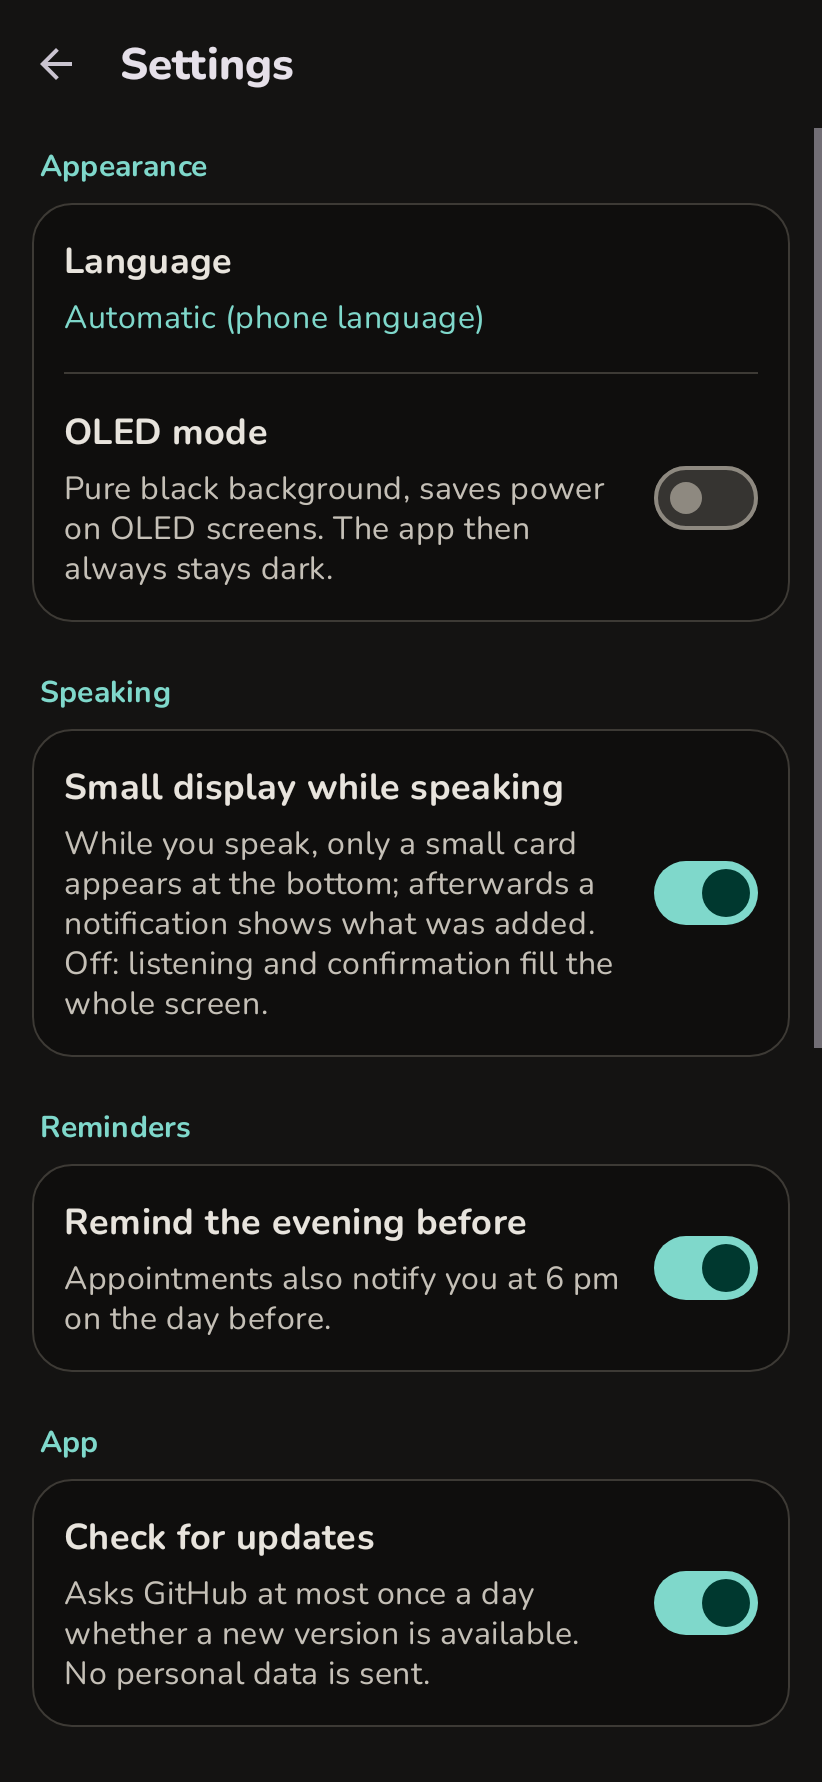
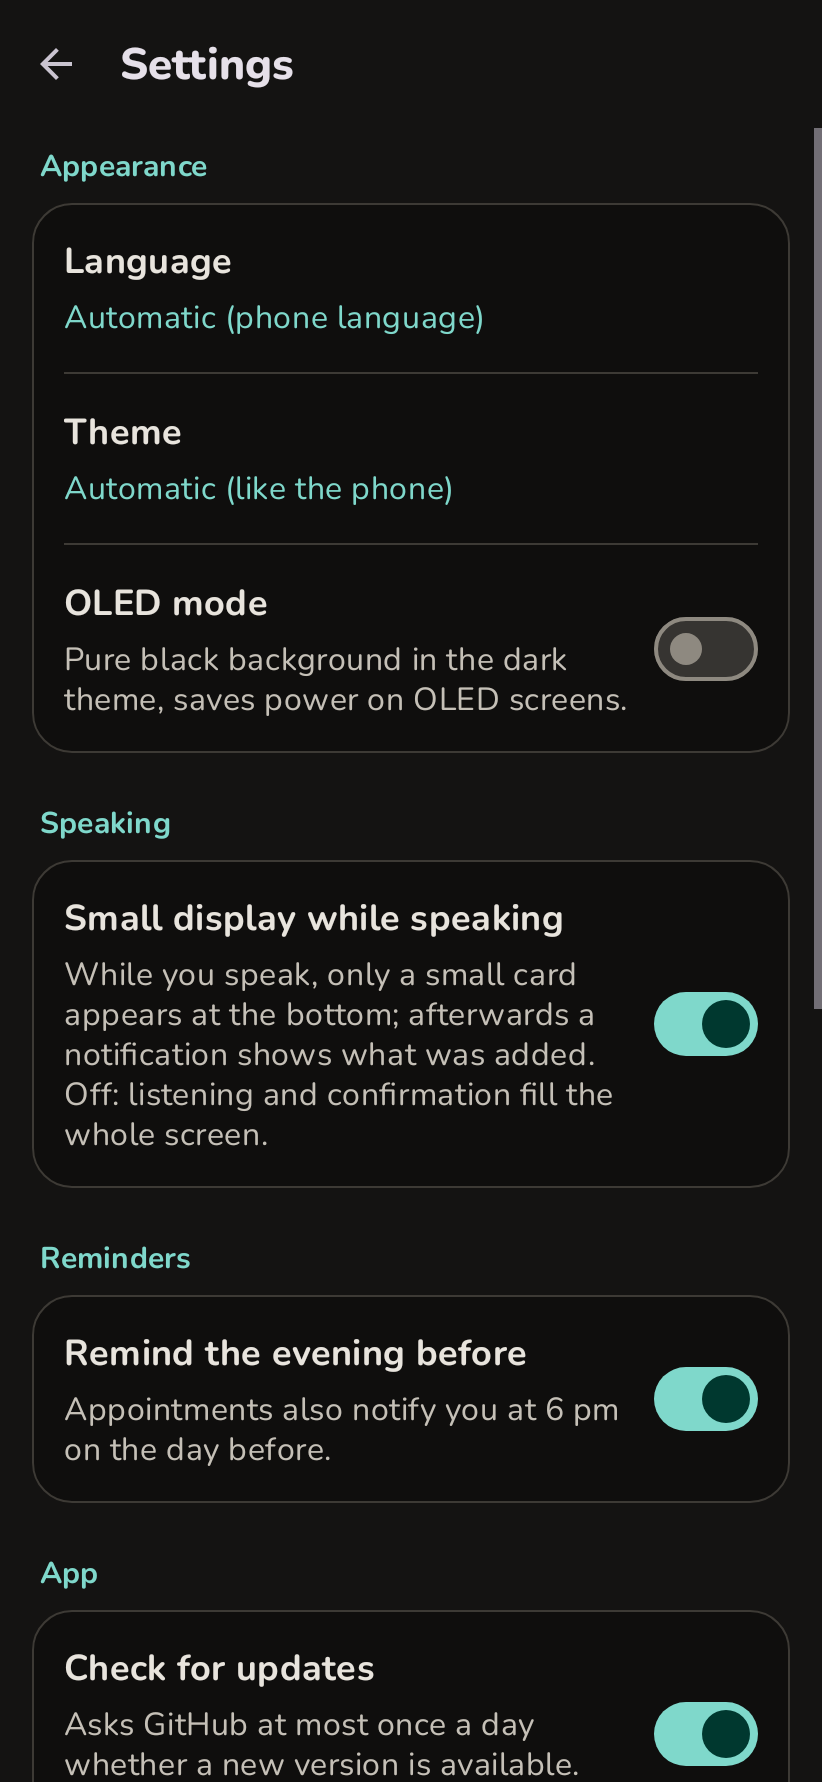
Theme choice: automatic, light or dark (0.5.1)
The settings get a theme row: like the phone, light or dark. The OLED
mode now only makes the dark theme pure black instead of forcing the
app dark; whoever had it on before keeps a dark app. In the light
theme the OLED switch rests.

Claude-Session: https://claude.ai/code/session_01BeRUbzauKFCoRaM6PqiE45

diff --git a/app/src/test/java/de/silvertax/merks/AppSmokeTest.kt b/app/src/test/java/de/silvertax/merks/AppSmokeTest.kt
@@ -51,6 +51,7 @@ import org.robolectric.Robolectric
 import org.robolectric.RobolectricTestRunner
 import org.robolectric.RuntimeEnvironment
 import org.robolectric.Shadows.shadowOf
+import org.robolectric.shadows.ShadowDialog
 import org.robolectric.shadows.ShadowSpeechRecognizer
 import java.time.LocalDate
 import java.time.LocalDateTime
@@ -154,7 +155,7 @@ class AppSmokeTest {
 
     /** Saving runs on a background thread and reports back to the screen; wait for both. */
     private fun waitFor(condition: () -> Boolean) {
-        repeat(200) {
+        repeat(400) {
             idleMain()
             if (condition()) return
             Thread.sleep(25)
@@ -385,18 +386,71 @@ class AppSmokeTest {
     @After fun backToFollowingThePhone() = AppCompatDelegate.setDefaultNightMode(AppCompatDelegate.MODE_NIGHT_FOLLOW_SYSTEM)
 
     /** The screen then rebuilds itself, which the simulation cannot follow, so this stops at the switch. */
-    @Test fun oledSwitchInTheSettings() {
+    @Test fun oledSwitchInTheDarkSettings() {
+        RuntimeEnvironment.setQualifiers("+night")
         val settings = Robolectric.buildActivity(SettingsActivity::class.java).setup().get()
+        assertTrue(settings.findViewById<View>(R.id.row_oled).isEnabled)
         settings.findViewById<View>(R.id.row_oled).performClick()
         assertTrue(Prefs.oled(app))
+        // Black no longer makes the app dark by itself; that is what the design choice is for.
+        assertEquals(AppCompatDelegate.MODE_NIGHT_FOLLOW_SYSTEM, AppCompatDelegate.getDefaultNightMode())
+    }
+
+    @Test fun oledSwitchRestsInTheLightDesign() {
+        val settings = Robolectric.buildActivity(SettingsActivity::class.java).setup().get()
+        assertFalse(settings.findViewById<View>(R.id.row_oled).isEnabled)
+        assertFalse(settings.findViewById<View>(R.id.oled).isEnabled)
+    }
+
+    /** The screen then redraws itself in the new design, which the simulation cannot follow. */
+    @Test fun designCanBeChosenInTheSettings() {
+        val settings = Robolectric.buildActivity(SettingsActivity::class.java).setup().get()
+        assertEquals("Automatisch (wie das Handy)", settings.findViewById<TextView>(R.id.theme_value).text.toString())
+        settings.findViewById<View>(R.id.row_theme).performClick()
+        val dialog = ShadowDialog.getLatestDialog() as androidx.appcompat.app.AlertDialog
+        assertEquals("Dunkel", dialog.listView.adapter.getItem(2).toString())
+        dialog.listView.performItemClick(dialog.listView.getChildAt(2), 2, 2)
+        assertEquals(Appearance.DARK, Prefs.theme(app))
+        assertEquals("Dunkel", settings.findViewById<TextView>(R.id.theme_value).text.toString())
         assertEquals(AppCompatDelegate.MODE_NIGHT_YES, AppCompatDelegate.getDefaultNightMode())
+    }
+
+    @Test fun designLightAndAutomatic() {
+        Prefs.setTheme(app, Appearance.LIGHT)
+        Appearance.applyNightMode(app)
+        assertEquals(AppCompatDelegate.MODE_NIGHT_NO, AppCompatDelegate.getDefaultNightMode())
+        Prefs.setTheme(app, Appearance.AUTO)
+        Appearance.applyNightMode(app)
+        assertEquals(AppCompatDelegate.MODE_NIGHT_FOLLOW_SYSTEM, AppCompatDelegate.getDefaultNightMode())
+    }
+
+    /** Until 0.5.0 OLED made the app dark; whoever had it on keeps a dark app after the update. */
+    @Test fun oledFromBeforeKeepsTheAppDark() {
+        assertEquals(Appearance.AUTO, Prefs.theme(app))
+        Prefs.setOled(app, true)
+        assertEquals(Appearance.DARK, Prefs.theme(app))
+        Appearance.applyNightMode(app)
+        assertEquals(AppCompatDelegate.MODE_NIGHT_YES, AppCompatDelegate.getDefaultNightMode())
+        // A choice made later wins.
+        Prefs.setTheme(app, Appearance.AUTO)
+        assertEquals(Appearance.AUTO, Prefs.theme(app))
+    }
+
+    @Test fun oledStaysOutOfTheLightDesign() {
+        Prefs.setAskedPermissions(app)
+        Prefs.prefs(app).edit().putLong("update_checked_at", System.currentTimeMillis()).apply()
+        Prefs.setOled(app, true)
+        Prefs.setTheme(app, Appearance.LIGHT)
+        val main = Robolectric.buildActivity(MainActivity::class.java).setup().get()
+        val root = main.findViewById<ViewGroup>(android.R.id.content).getChildAt(0)
+        assertTrue((root.background as ColorDrawable).color != Color.BLACK)
     }
 
     @Test fun oledModeMakesTheAppDarkAndBlack() {
         Prefs.setAskedPermissions(app)
         Prefs.prefs(app).edit().putLong("update_checked_at", System.currentTimeMillis()).apply()
         Prefs.setOled(app, true)
-        // Forcing dark is AppCompat's part (see oledSwitchInTheSettings); here the phone is dark already.
+        // Making the app dark is AppCompat's part (see designCanBeChosenInTheSettings); here the phone is dark already.
         RuntimeEnvironment.setQualifiers("+night")
 
         val main = Robolectric.buildActivity(MainActivity::class.java).setup().get()

diff --git a/app/src/main/java/de/silvertax/merks/SettingsActivity.kt b/app/src/main/java/de/silvertax/merks/SettingsActivity.kt
@@ -1,7 +1,5 @@
 package de.silvertax.merks
 
-import android.content.res.Configuration
-import android.content.res.Resources
 import android.os.Bundle
 import android.view.MotionEvent
 import android.view.View
@@ -52,15 +50,20 @@ class SettingsActivity : MerksActivity() {
         language.text = languageName(Prefs.lang(this))
         findViewById<View>(R.id.row_language).setOnClickListener { chooseLanguage() }
 
+        findViewById<TextView>(R.id.theme_value).text = themeName(Prefs.theme(this))
+        findViewById<View>(R.id.row_theme).setOnClickListener { chooseTheme() }
+
         switchRow(R.id.row_oled, R.id.oled, Prefs.oled(this)) { on ->
-            fun night(c: Configuration) = (c.uiMode and Configuration.UI_MODE_NIGHT_MASK) == Configuration.UI_MODE_NIGHT_YES
-            val darkNow = night(resources.configuration)
-            val darkWanted = on || night(Resources.getSystem().configuration)
             Prefs.setOled(this, on)
-            Appearance.applyNightMode(this)
-            // Switching between light and dark redraws the screen by itself; black alone needs a push.
-            if (darkWanted == darkNow) recreate()
+            // Black only shows in the dark design; then the screen is redrawn to show it.
+            if (Appearance.isDark(this)) recreate()
         }
+        // In the light design the OLED switch has nothing to do.
+        val light = !Appearance.isDark(this)
+        val oledRow = findViewById<View>(R.id.row_oled)
+        oledRow.isEnabled = !light
+        oledRow.alpha = if (light) 0.5f else 1f
+        findViewById<View>(R.id.oled).isEnabled = !light
         switchRow(R.id.row_compact, R.id.compact, Prefs.compact(this)) { on -> Prefs.setCompact(this, on) }
         switchRow(R.id.row_eve, R.id.eve_before, Prefs.eveBefore(this)) { on ->
             Prefs.setEveBefore(this, on)
@@ -104,6 +107,30 @@ class SettingsActivity : MerksActivity() {
             else -> R.string.settings_language_auto
         },
     )
+
+    private fun themeName(choice: String): String = getString(
+        when (choice) {
+            Appearance.LIGHT -> R.string.theme_light
+            Appearance.DARK -> R.string.theme_dark
+            else -> R.string.theme_auto
+        },
+    )
+
+    /** Like the phone, light or dark. AppCompat redraws the screens itself when that changes their look. */
+    private fun chooseTheme() {
+        val choices = arrayOf(Appearance.AUTO, Appearance.LIGHT, Appearance.DARK)
+        MaterialAlertDialogBuilder(this)
+            .setTitle(R.string.settings_theme)
+            .setSingleChoiceItems(choices.map { themeName(it) }.toTypedArray(), choices.indexOf(Prefs.theme(this))) { dialog, which ->
+                dialog.dismiss()
+                val choice = choices[which]
+                if (choice == Prefs.theme(this)) return@setSingleChoiceItems
+                Prefs.setTheme(this, choice)
+                findViewById<TextView>(R.id.theme_value).text = themeName(choice)
+                Appearance.applyNightMode(this)
+            }
+            .show()
+    }
 
     /** Automatic, Deutsch or English. AppCompat redraws all screens in the new language by itself. */
     private fun chooseLanguage() {

diff --git a/app/src/main/java/de/silvertax/merks/Appearance.kt b/app/src/main/java/de/silvertax/merks/Appearance.kt
@@ -2,18 +2,31 @@ package de.silvertax.merks
 
 import android.app.Application
 import android.content.Context
+import android.content.res.Configuration
 import android.os.Build
 import android.os.Bundle
 import androidx.appcompat.app.AppCompatActivity
 import androidx.appcompat.app.AppCompatDelegate
 
 object Appearance {
-    /** OLED mode keeps the app dark at all times; otherwise it follows the phone. */
+    const val AUTO = ""
+    const val LIGHT = "light"
+    const val DARK = "dark"
+
+    /** Light, dark, or like the phone. */
     fun applyNightMode(ctx: Context) {
         AppCompatDelegate.setDefaultNightMode(
-            if (Prefs.oled(ctx)) AppCompatDelegate.MODE_NIGHT_YES else AppCompatDelegate.MODE_NIGHT_FOLLOW_SYSTEM,
+            when (Prefs.theme(ctx)) {
+                LIGHT -> AppCompatDelegate.MODE_NIGHT_NO
+                DARK -> AppCompatDelegate.MODE_NIGHT_YES
+                else -> AppCompatDelegate.MODE_NIGHT_FOLLOW_SYSTEM
+            },
         )
     }
+
+    /** Whether this screen is shown in the dark design right now. */
+    fun isDark(ctx: Context): Boolean =
+        (ctx.resources.configuration.uiMode and Configuration.UI_MODE_NIGHT_MASK) == Configuration.UI_MODE_NIGHT_YES
 }
 
 class MerksApp : Application() {
@@ -24,20 +37,22 @@ class MerksApp : Application() {
     }
 }
 
-/** Base of every screen: pure black in OLED mode, and picks up a change made on another screen. */
+/** Base of every screen: pure black in OLED mode when dark, and picks up a change made on another screen. */
 abstract class MerksActivity : AppCompatActivity() {
     private var oledShown = false
+
+    private fun wantsOled() = Prefs.oled(this) && Appearance.isDark(this)
 
     override fun onCreate(savedInstanceState: Bundle?) {
         // The language may have been changed in Android's settings meanwhile (Android 13+).
         if (Build.VERSION.SDK_INT >= 33) Lang.sync(this)
-        oledShown = Prefs.oled(this)
+        oledShown = wantsOled()
         if (oledShown) theme.applyStyle(R.style.ThemeOverlay_Merks_Oled, true)
         super.onCreate(savedInstanceState)
     }
 
     override fun onResume() {
         super.onResume()
-        if (Prefs.oled(this) != oledShown) recreate()
+        if (wantsOled() != oledShown) recreate()
     }
 }

diff --git a/app/src/main/java/de/silvertax/merks/Store.kt b/app/src/main/java/de/silvertax/merks/Store.kt
@@ -110,8 +110,16 @@ object Prefs {
     /** Small info while listening, confirmation as a notification. */
     fun compact(ctx: Context): Boolean = p(ctx).getBoolean("compact", true)
     fun setCompact(ctx: Context, on: Boolean) = p(ctx).edit().putBoolean("compact", on).apply()
-    /** Pure black background, and the app always dark. */
+    /** Pure black background when the app is dark. */
     fun oled(ctx: Context): Boolean = p(ctx).getBoolean("oled", false)
+
+    /**
+     * Light, dark or like the phone. Until 0.5.0 the OLED mode made the app dark by itself;
+     * whoever had it on keeps a dark app.
+     */
+    fun theme(ctx: Context): String =
+        p(ctx).getString("theme", null) ?: if (oled(ctx)) Appearance.DARK else Appearance.AUTO
+    fun setTheme(ctx: Context, theme: String) = p(ctx).edit().putString("theme", theme).apply()
     fun setOled(ctx: Context, on: Boolean) = p(ctx).edit().putBoolean("oled", on).apply()
     fun updates(ctx: Context): Boolean = p(ctx).getBoolean("updates", true)
     fun setUpdates(ctx: Context, on: Boolean) = p(ctx).edit().putBoolean("updates", on).apply()

diff --git a/README.md b/README.md
@@ -25,7 +25,7 @@ Repeating things work too: "Every Monday take out the trash", "Every day at 8 am
 
 Reminders come on time, appointments one hour ahead and, if you like, also the evening before. Each reminder has "Done", "In 15 min" and "In 1 hr" buttons.
 
-The widget can be resized from 2x2 down to 1x1. The app follows your phone's dark mode, and an OLED mode gives a pure black background.
+The widget can be resized from 2x2 down to 1x1. The theme is light, dark or follows your phone, and an OLED mode makes the dark theme pure black.
 
 ## Language
 

diff --git a/CHANGELOG.md b/CHANGELOG.md
@@ -2,6 +2,13 @@
 
 What changed for users, per version. When a GitHub release is created with an empty description, the Build workflow fills it in from the section of that version.
 
+## 0.5.1
+
+### What's new
+
+- **Theme:** choose light, dark or like the phone in the settings.
+- **OLED mode** now makes the dark theme pure black; it no longer switches the app to dark by itself. If you had it on, the app stays dark.
+
 ## 0.5.0
 
 ### What's new
